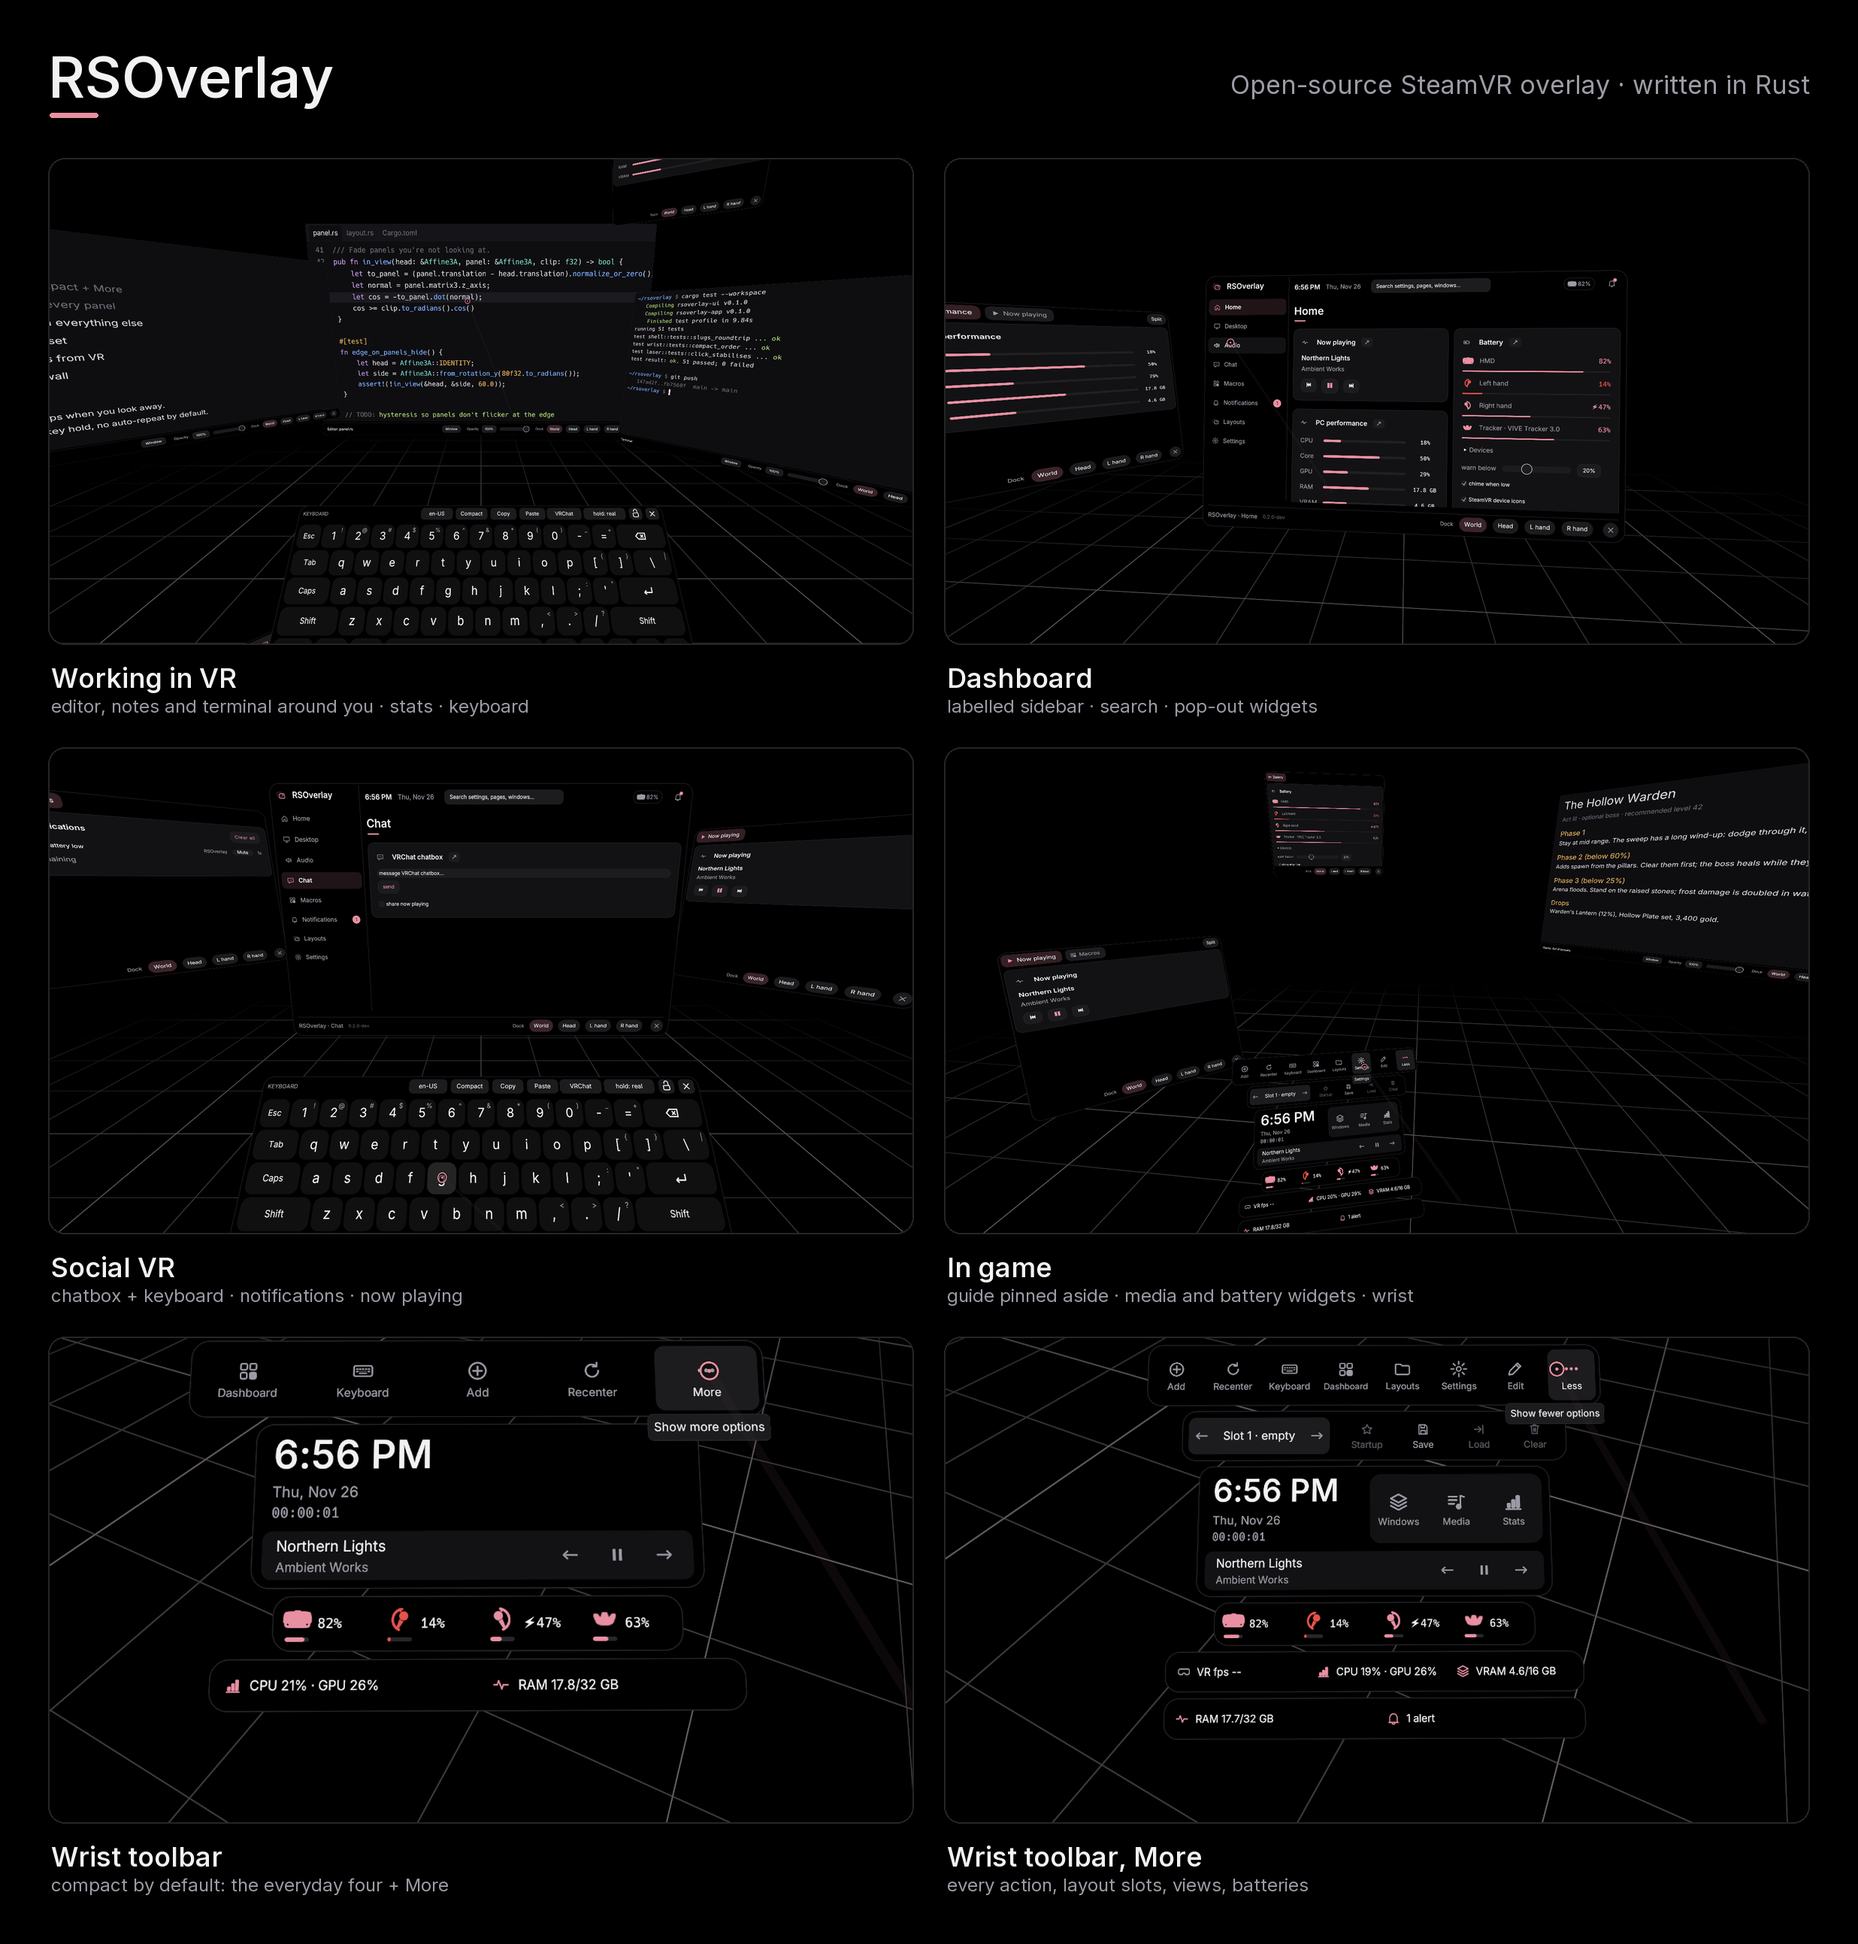
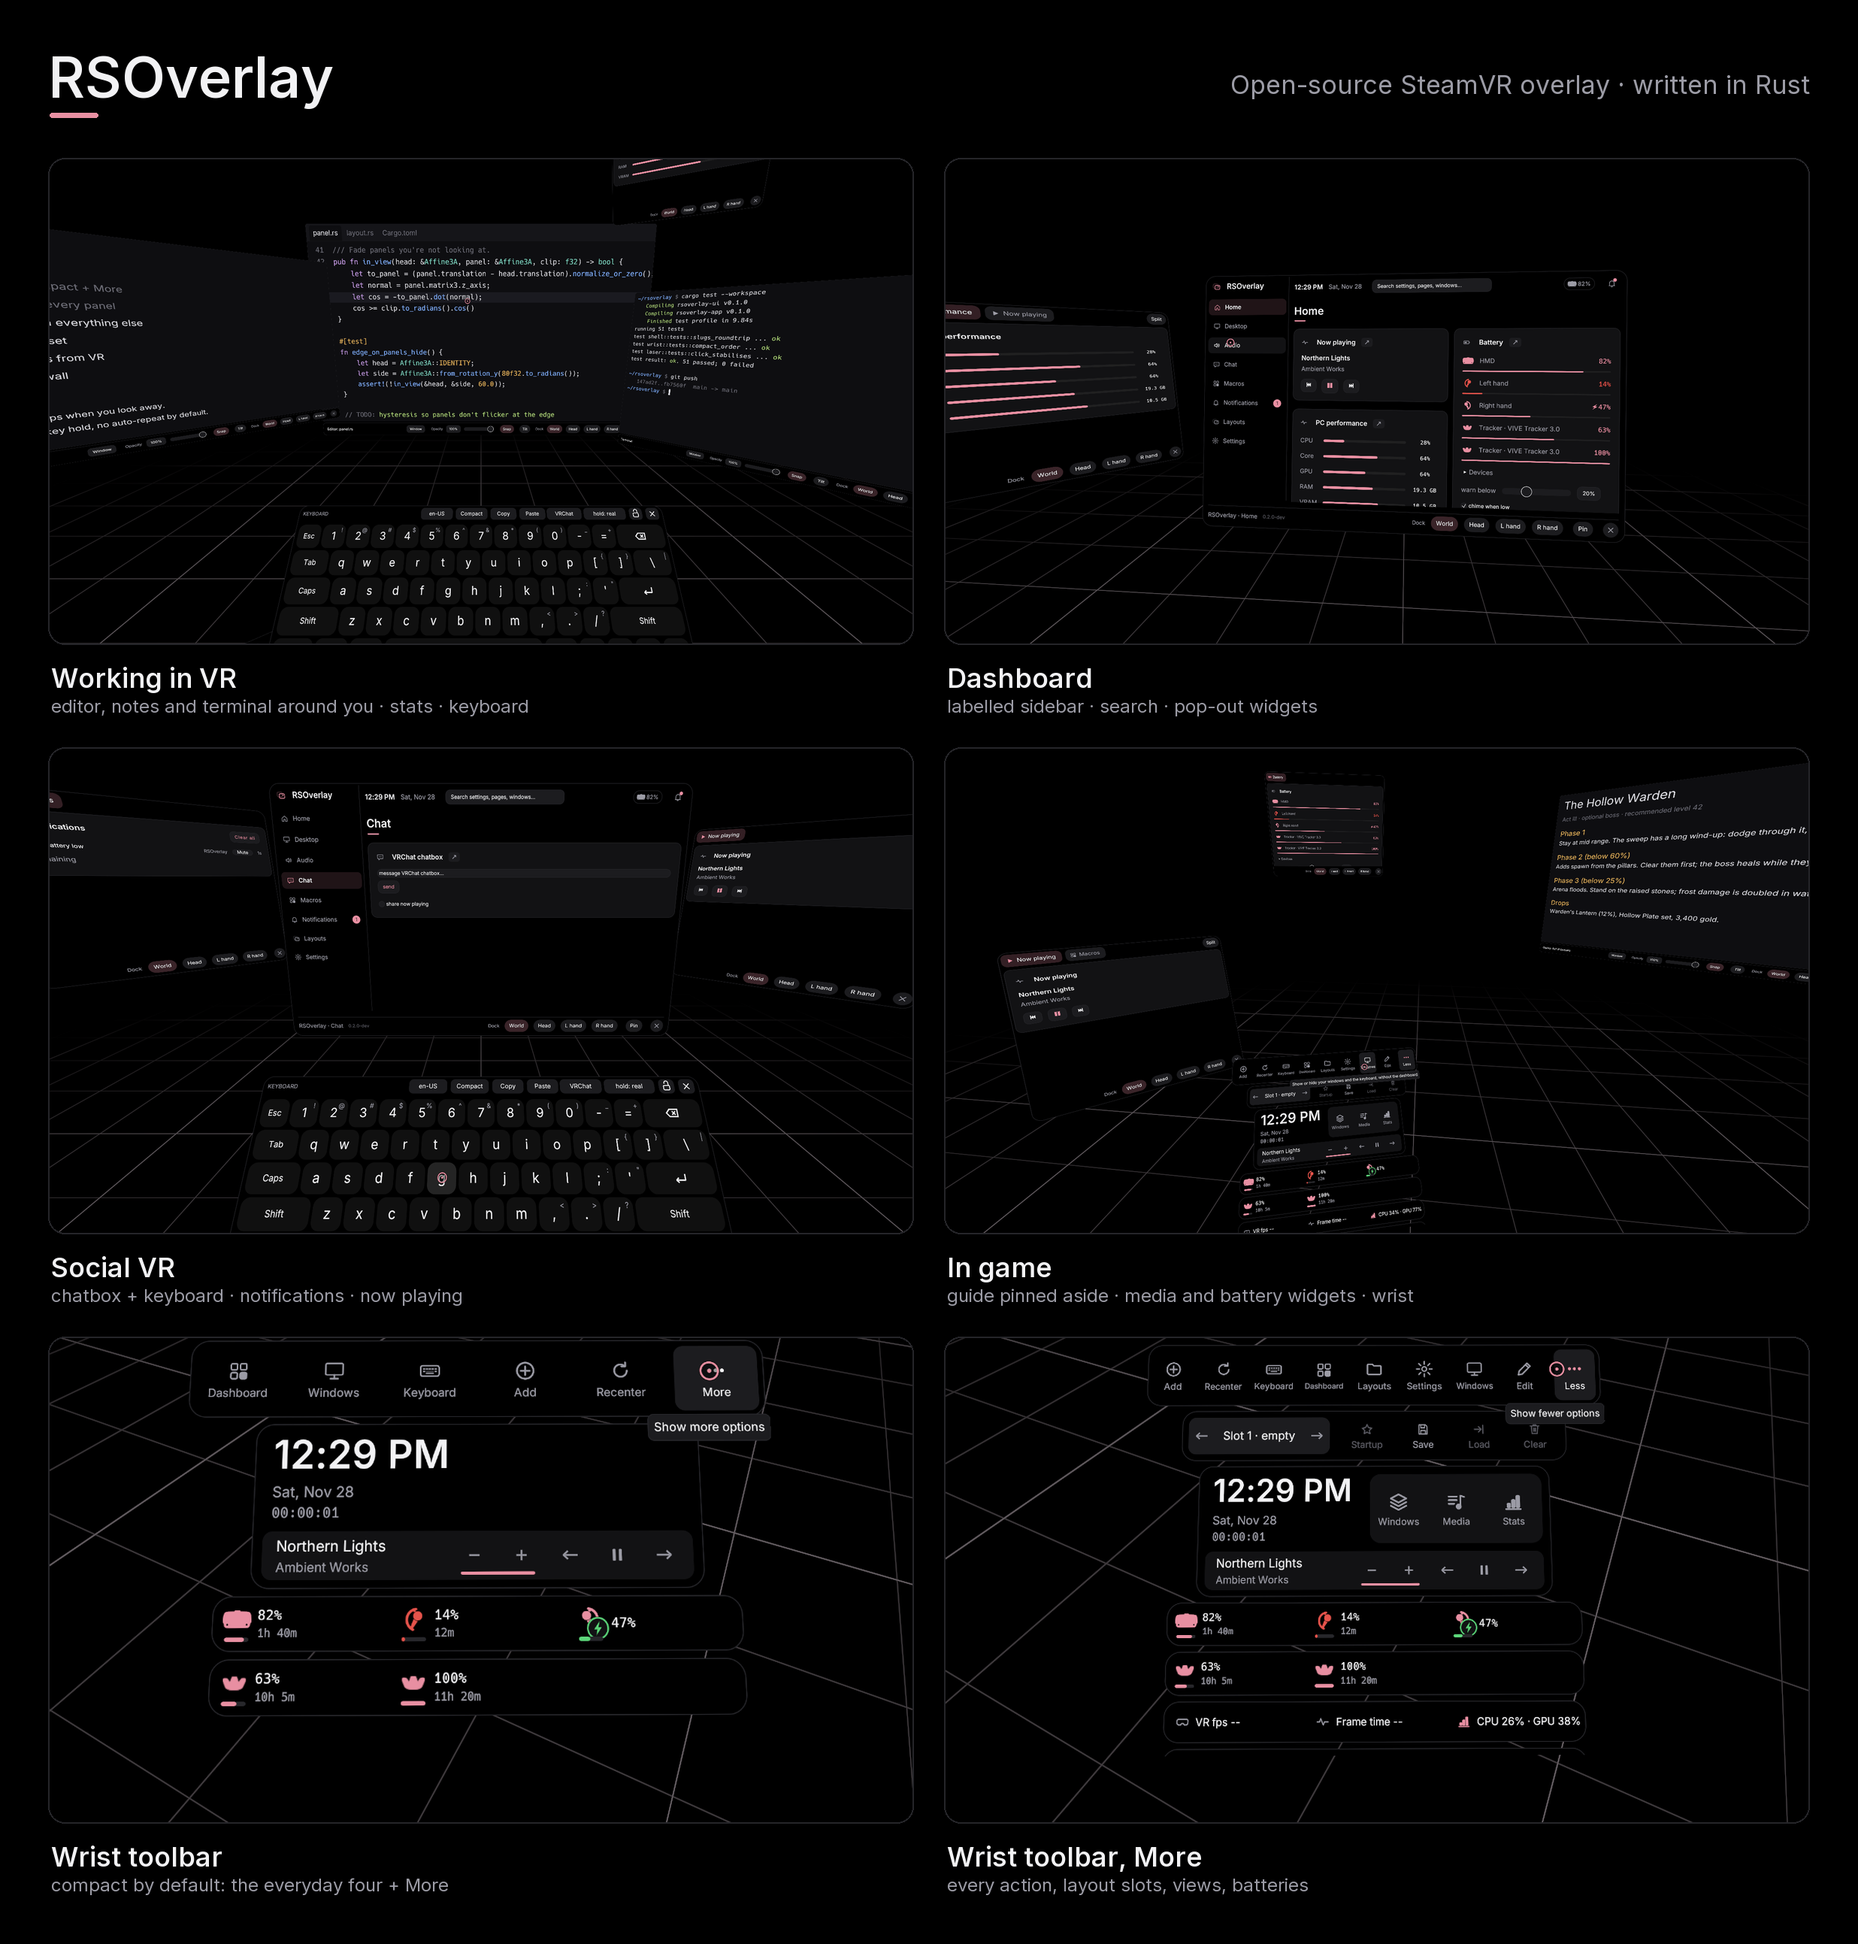
Refresh README / store screenshots; VR-preview shots use the default config
All six VR scenes, the settings-card overview and the combined overview
re-rendered with today's UI (wrist music volume, charging badge, three
batteries per row, Snap / Tilt on window toolbars, dashboard Pin).

--vr-preview --screenshot now renders with the default config, like
--settings-cards already did, so docs images show RSOverlay as shipped
on every machine instead of the user's own wrist layout and accent.

diff --git a/crates/rsoverlay-app/src/main.rs b/crates/rsoverlay-app/src/main.rs
@@ -480,7 +480,11 @@ fn run_main() -> Result<()> {
             config_path.clone(),
         ),
         RuntimeMode::VrPreview => {
-            preview_vr::run(notify_rx, test_cfg, config.clone(), config_path.clone())
+            // Screenshots use the default config, like --settings-cards:
+            // docs / store images show RSOverlay as shipped, the same on
+            // every machine (not the user's own wrist layout or accent).
+            let cfg = if test_cfg.screenshot.is_some() { rsoverlay_core::Config::default() } else { config.clone() };
+            preview_vr::run(notify_rx, test_cfg, cfg, config_path.clone())
         }
         RuntimeMode::Vr => vr::run(notify_rx, rt_handle.clone(), config.clone(), config_path.clone(), osc),
     };
